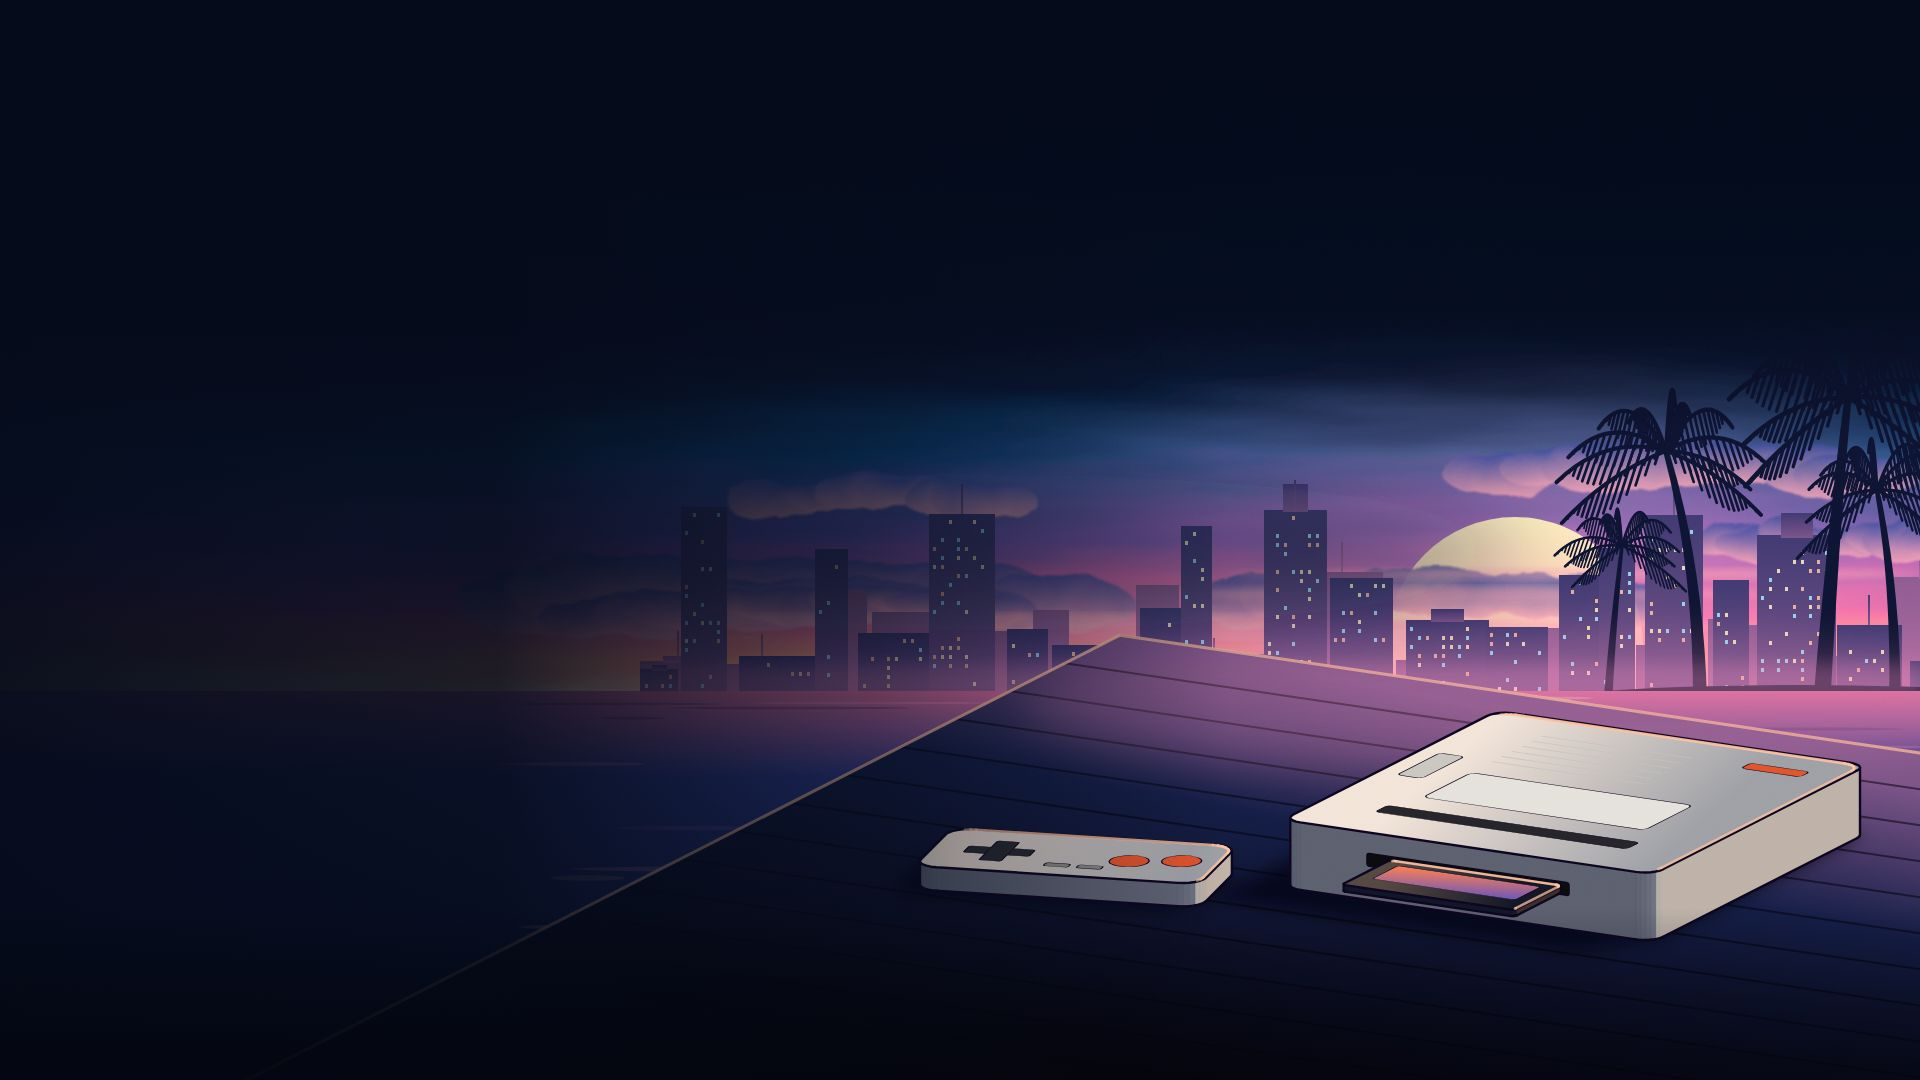
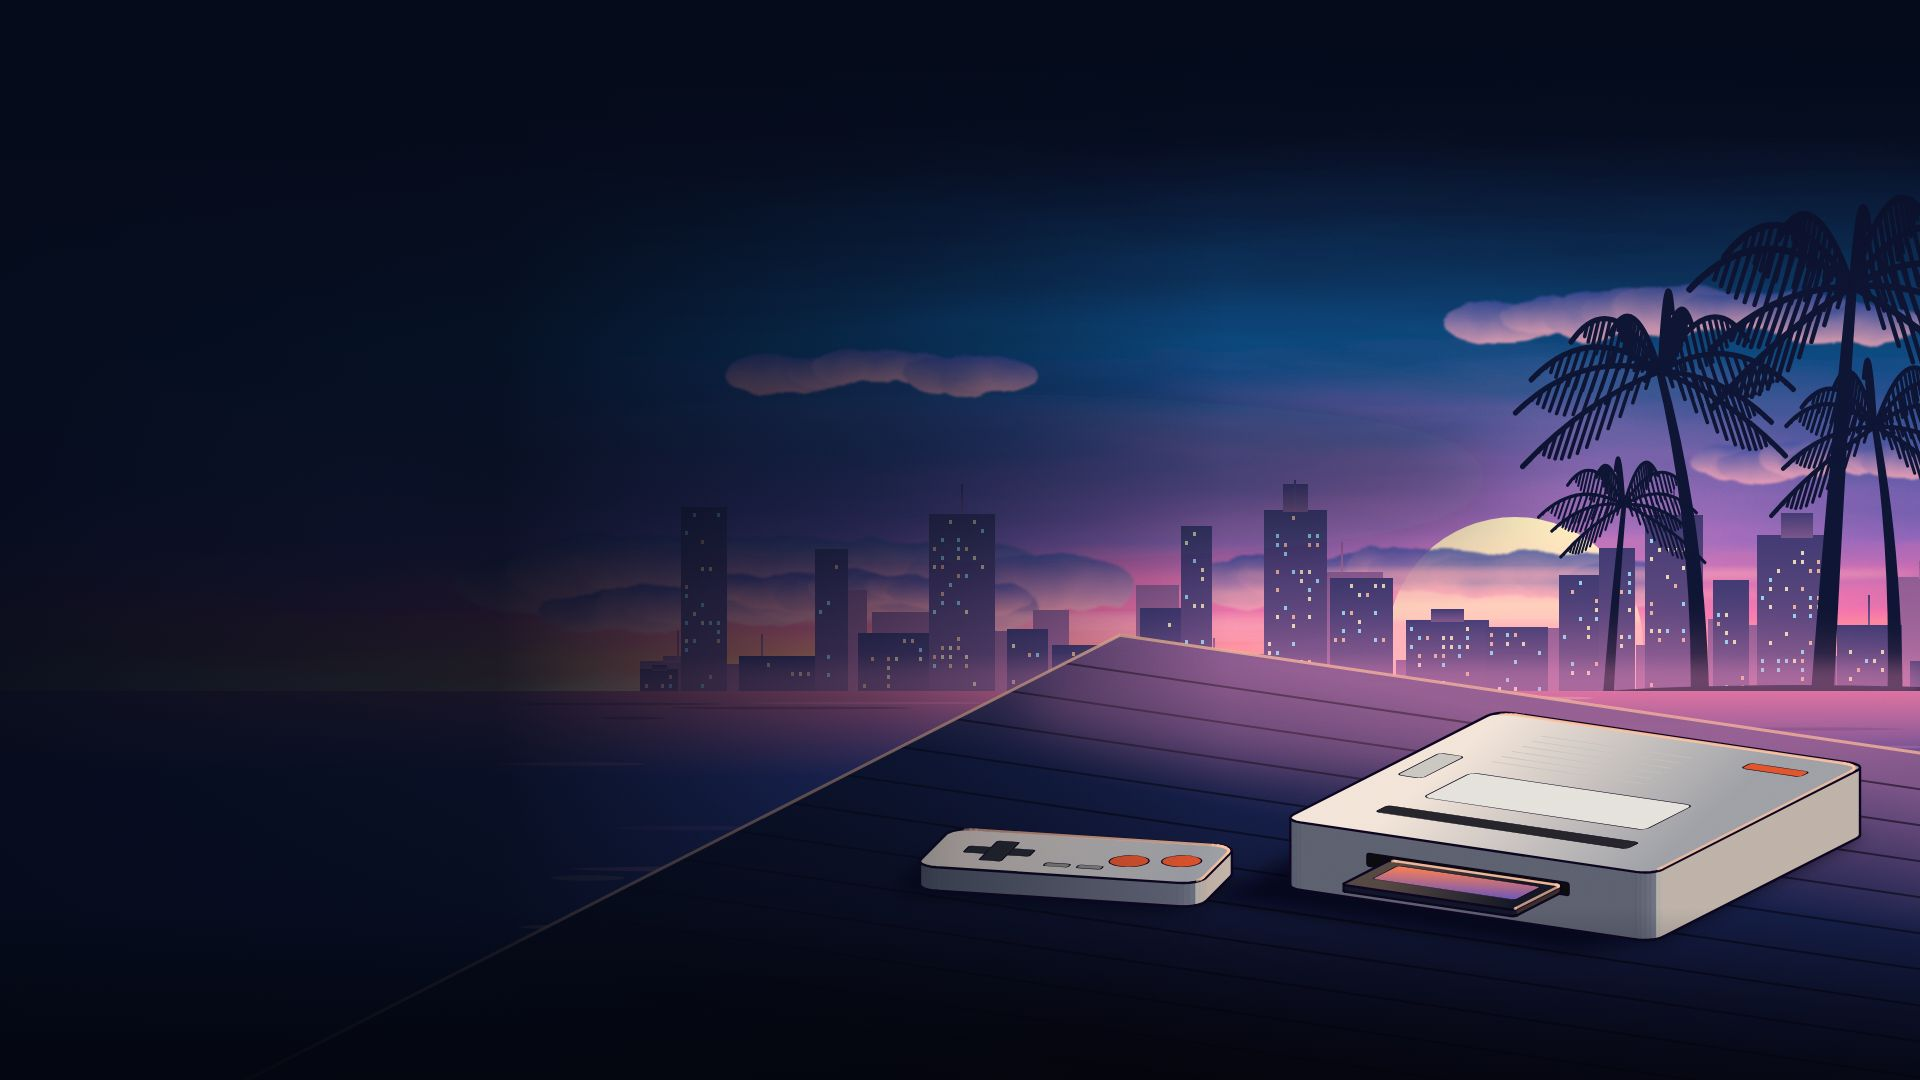
Home completed

Changed region(s): [[0.3438, 0.1528, 1.0, 0.6111], [0.375, 0.4278, 0.5312, 0.4889], [0.875, 0.5806, 0.9062, 0.6111]]

diff --git a/tools/render-system-backgrounds.py b/tools/render-system-backgrounds.py
@@ -1,7 +1,8 @@
 #!/usr/bin/env python3
 """Draws the systems' backgrounds (systems/<name>/background.jpg): the machine, inked and lit
 from behind, on a pier in front of a coastal city at sunset. Saturated pinks, oranges and
-purples over the theme's navy, with the left and the top kept dark for the tiles and the texts.
+purples over the theme's navy, with the left kept dark for the texts and the very top for the
+top bar; the sky keeps its color behind the home's row of tiles, which are translucent.
 
     python3 tools/render-system-backgrounds.py            # every system
     python3 tools/render-system-backgrounds.py snes nes   # only these
@@ -54,22 +55,22 @@ def dim(c, keep):
 # Sky from the top to the horizon (fractions of the height), sun, light and shadow of each mood
 MOODS = {
     "vice": dict(
-        sky=[(0, "#040816"), (.34, "#0B1238"), (.42, "#3A1466"), (.50, "#9A1F85"), (.565, "#F03C72"),
+        sky=[(0, "#040816"), (.14, "#0B1238"), (.33, "#3A1466"), (.50, "#9A1F85"), (.565, "#F03C72"),
              (.61, "#FF7F4F"), (.64, "#FFCB66")],
         sun=("#FFE9A0", "#FF6F61"), glow="#FF5E8A", rim="#FFB07A", shadow="#2B1250", city="#27104D",
         cloud=("#5A1C78", "#FF8E7A"), water=("#C24A6E", "#45155C", "#080A1E")),
     "miami": dict(
-        sky=[(0, "#040816"), (.34, "#071A3A"), (.42, "#0F4A80"), (.50, "#6A55B8"), (.565, "#F0629F"),
+        sky=[(0, "#040816"), (.14, "#071A3A"), (.33, "#0F4A80"), (.50, "#6A55B8"), (.565, "#F0629F"),
              (.61, "#FF9F7A"), (.64, "#FFDDA6")],
         sun=("#FFF1C1", "#FF8FB1"), glow="#FF8FBF", rim="#FFC2A0", shadow="#1B2A5E", city="#1D2A63",
         cloud=("#3F4FA0", "#FFA9B8"), water=("#D46A98", "#2C3A86", "#060C22")),
     "gold": dict(
-        sky=[(0, "#040816"), (.34, "#101040"), (.42, "#43207A"), (.50, "#B23F74"), (.56, "#F6774C"),
+        sky=[(0, "#040816"), (.14, "#101040"), (.33, "#43207A"), (.50, "#B23F74"), (.56, "#F6774C"),
              (.61, "#FFAA3F"), (.64, "#FFE680")],
         sun=("#FFF4B8", "#FFA23D"), glow="#FF9A3D", rim="#FFD08A", shadow="#3A1848", city="#33154A",
         cloud=("#6B2A6E", "#FFB05E"), water=("#D9763F", "#5A1E55", "#0A0A1E")),
     "night": dict(
-        sky=[(0, "#03050F"), (.36, "#070B26"), (.46, "#1F1152"), (.54, "#62188C"), (.60, "#CC2585"),
+        sky=[(0, "#03050F"), (.14, "#070B26"), (.36, "#1F1152"), (.54, "#62188C"), (.60, "#CC2585"),
              (.64, "#FF6494")],
         sun=("#FFF3FF", "#F0B7FF"), glow="#C13CFF", rim="#FF6AD5", shadow="#150C3A", city="#120A33",
         cloud=("#2A1560", "#D94BB0"), water=("#8A2A86", "#2A1160", "#05061A")),
@@ -393,7 +394,7 @@ def scene(page, mood, rnd):
     cloud = page.gradient([(0, shade), (.55, mix(shade, lit, .55)), (1, lit)])
     clouds = []
     for _ in range(7):
-        cx, cy = rnd.uniform(720, 1900), rnd.uniform(HORIZON - 250, HORIZON - 70)
+        cx, cy = rnd.uniform(720, 1900), rnd.uniform(HORIZON - 440, HORIZON - 70)
         w = rnd.uniform(220, 520)
         for i in range(9):
             t = i / 8 - .5
@@ -427,7 +428,7 @@ def scene(page, mood, rnd):
     # An island with palms, far to the right
     dark = mix(mood["city"], "#04030C", .55)
     page.add(f'<ellipse cx="1800" cy="{HORIZON + 14:.0f}" rx="270" ry="20" fill="{dark}"/>')
-    for x, hgt, lean in ((1700, 250, -34), (1822, 300, 26), (1895, 215, -18), (1608, 150, 14)):
+    for x, hgt, lean in ((1700, 330, -40), (1822, 410, 30), (1895, 280, -20), (1608, 190, 16)):
         palm(page, x, HORIZON + 8, hgt * rnd.uniform(.92, 1.06), lean, dark, rnd)
     page.add(f'<rect x="600" y="{HORIZON - 26:.0f}" width="{W - 600}" height="34" fill="{mood["glow"]}" opacity=".22" filter="url(#blur8)"/>')
     # The water: the sky upside down, darker, with the sun's streak
@@ -448,12 +449,12 @@ def scene(page, mood, rnd):
 
 
 def finish(page):
-    """Keeps the left, the top and the bottom dark for the texts, and adds a grain of paint."""
+    """Keeps the left, the very top and the bottom dark for the texts, and adds a grain of paint."""
     left = page.gradient([(0, NAVY, .97), (.26, NAVY, .90), (.46, NAVY, .50), (.64, NAVY, 0)], 0, 0, 1, 0)
-    top = page.gradient([(0, NAVY, .96), (.28, NAVY, .78), (.42, NAVY, 0)])
+    top = page.gradient([(0, NAVY, .95), (.11, NAVY, .84), (.19, NAVY, .34), (.30, NAVY, 0)])
     bottom = page.gradient([(.84, "#03040C", 0), (1, "#03040C", .70)])
     # A soft shade behind the system's name, which may run far to the right over the bright sky
-    page.add(f'<ellipse cx="960" cy="552" rx="560" ry="78" fill="{NAVY}" opacity=".42" filter="url(#blur45)"/>')
+    page.add(f'<ellipse cx="960" cy="478" rx="560" ry="84" fill="{NAVY}" opacity=".42" filter="url(#blur45)"/>')
     page.add(f'<rect width="{W}" height="{H}" fill="{left}"/><rect width="{W}" height="{H}" fill="{top}"/>'
              f'<rect width="{W}" height="{H}" fill="{bottom}"/>'
              f'<rect width="{W}" height="{H}" filter="url(#grain)" opacity=".07" style="mix-blend-mode:overlay"/>')

diff --git a/tools/render-icons.py b/tools/render-icons.py
@@ -1,7 +1,6 @@
 #!/usr/bin/env python3
-"""Draws the theme's own icons, flat and white: the top bar's controller, gun and wheel and the
-down arrow under the selected tile (_inc/icons/). The systems' tiles show their brand logos
-instead (views/system.xml).
+"""Draws the theme's own icons, flat and white: the top bar's controller, gun and wheel
+(_inc/icons/). The systems' tiles show their brand logos instead (views/system.xml).
 
     python3 tools/render-icons.py
 
@@ -70,9 +69,6 @@ ICONS = {
                part(rr(45, 50, 10, 32, 4)),
                part(circle(50, 50, 9), circle(50, 50, 4))],
               "8 8 84 84"),
-    # Under the selected tile
-    "arrow-down": ([part(poly([(44, 20), (56, 20), (56, 58), (70, 58), (50, 82), (30, 58), (44, 58)]))],
-                   "0 0 100 100"),
 }
 
 

diff --git a/docs/ARCHITECTURE.md b/docs/ARCHITECTURE.md
@@ -89,7 +89,8 @@ Learned on the console (Batocera 43.1); each one cost a round of screenshots:
   selected one so it doesn't cover them, and `logoAlignment` top keeps every tile's top on the
   row, so the selected one grows down and to the right.
 - **`systemInfoDelay`** (the carousel's) is how long the engine waits before showing
-  `systemInfo`; 0 shows the number of games together with the name.
+  `systemInfo`, its own line of games. The home hides that line and shows `{system:total}` in
+  the selected tile's strip instead, which has no delay.
 - **No date.** Themes get no current date: `{global:clock}` is the "show clock" setting ("YES"),
   the `<clock>` element shows the time only (`%H:%M`, or `%I:%M %p` with the 12-hour option)
   and ignores `<format>`, and the date format in the engine is the screensaver's.
@@ -117,6 +118,17 @@ Learned on the console (Batocera 43.1); each one cost a round of screenshots:
   the list being a variable of names separated by spaces. It works in a `<path>`, a `<visible>`,
   an `<opacity>` and a shader's `_binding`, and a condition may sit in another's "else"
   (`a ? 1 : b ? 2 : 3`).
+- **Keys belong to the engine.** A theme can't react to a key or add a second place to move
+  to: on the system view, left and right change the system, and down and up jump to the next
+  group of systems when Batocera's "Quick system select" is on, else do nothing.
+- **A delayed element on the system view.** Each system has its own copy of the view's
+  elements, and an element's `<storyboard>` (with no event) starts over when its system is
+  selected: an `opacity` animation with `begin="1000"` shows it after a second of rest.
+  `begin` and `duration` take plain numbers; a `${variable}` there counts as 0.
+- **System figures**: `{system:favorites}`, `{system:gamesPlayed}`, `{system:gameTime}`,
+  `{system:lastPlayedDate}`, `{system:mostPlayed}`, `{system:isCheevosSupported}` and
+  `{system:isNetplaySupported}` work in the system view's texts. A text shows "None" for 0:
+  `{system:favorites} > 0 ? {system:favorites} : "0"` shows the number.
 - **RetroAchievements**: `${global.cheevos}` is set when an account is configured in Batocera,
   `${global.cheevos.username}` is its name; a `webimage` loads the avatar from
   `media.retroachievements.org` and keeps it in `~/.emulationstation/tmp`.
@@ -131,7 +143,7 @@ batox-theme/
     backgrounds/          generated backgrounds (tools/render-background.py)
     frames/               selection glow (ninepatch) and white.png (tools/render-frames.py)
     fonts/                Inter Light, Regular and SemiBold, and their license (OFL 1.1)
-    icons/                the down arrow of the selected tile; controller, gun and wheel
+    icons/                the top bar's controller, gun and wheel
     shaders/              white.glsl: draws the systems' logos in white
   views/
     screen.xml            always on top: controllers, network and battery, clock
@@ -155,7 +167,7 @@ batox-theme/
     render-background.py  draws the wave backgrounds, in pure Python
     render-system-backgrounds.py  draws the systems' backgrounds (needs Chrome or Chromium)
     render-frames.py      draws the selection glow and white.png, in pure Python
-    render-icons.py       draws the top bar's icons and the down arrow, in pure Python
+    render-icons.py       draws the top bar's icons, in pure Python
     preview-logos.py      shows every system logo as the home draws it, to pick its treatment
     deploy.sh             copies the theme to a console over SSH
     package.sh            builds the release ZIP
@@ -185,7 +197,7 @@ Colors (hex, `RRGGBBAA` where transparency matters):
 | `bgTop` / `bgBottom` | `0B1A33` / `04080F` | background gradient |
 | `wave` | `3B7BE0` at 10–25 % | light waves over the background |
 | `surface` / `tileSurface` | `14233DE6` / `1A2B48` | panels / game tiles |
-| `homeTile` / `homeTileSelected` / `homeStrip` | `15306B` / `3A5797` / `213F7D` (94 %) | the home's tiles |
+| `homeTile` / `homeTileSelected` / `homeStrip` | `15122B` (65 %) / `2E2659` / `1E1940` (94 %) | the home's tiles: dark indigo, after the sunset backgrounds; the unselected ones let the background show through |
 | `selectionColor` | `F2F4F8` | the selection frame: white, like a console home's |
 | `accent` | `3B8CFF` | rating, focus |
 | `textPrimary` | `FFFFFF` | titles, the brand |
@@ -205,10 +217,12 @@ The home at 16:9 (fractions of the screen), measured on a console's home screen:
 0.19 │┌───┐┏━━━━━━━━━┓┌───┐┌───┐┌───┐┌───┐┌───┐┌───┐┌───┐┌───┐┌───┐ │  square tiles of 202 px,
      ││ ▣ │┃         ┃│ ▣ ││ ▣ ││ ▣ ││ ▣ ││ ▣ ││ ▣ ││ ▣ ││ ▣ ││ ▣ │ │  5 px apart, white logos
 0.38 │└───┘┃  logo   ┃└───┘└───┘└───┘└───┘└───┘└───┘└───┘└───┘└───┘ │
-     │     ┃         ┃                                              │  the selection, in the
-0.51 │     ┃─────────┃ Final Burn Neo                                │  second place: 1.7 times
-0.59 │     ┗━━━↓━━━━━┛ Arcade   2019                                │  larger, a strip with an
-0.63 │                 918 GAMES                                    │  arrow, a white frame
+0.44 │     ┃         ┃ Final Burn Neo                                │  the selection, in the
+0.49 │     ┃─────────┃ Arcade   2019                                │  second place: 1.7 times
+0.59 │     ┗918 GAMES┛                                              │  larger, a strip with its
+0.62 │     ┌ favorites   played       play time ┐                   │  games, a white frame;
+0.84 │     └ last played most played  features  ┘                   │  under it, the panel,
+     │                                        the system's picture  │  after a second of rest
 0.88 │ ──────────────────────────────────────────────────────────── │  separator
 0.90 │ (start) MENU  (Y) SEARCH  (X) RANDOM  (B) SELECT             │  help bar
 1.00 └──────────────────────────────────────────────────────────────┘
@@ -247,12 +261,21 @@ Approved on the console, and kept unless asked:
 - A tile: a square of `homeTile` with the system's brand logo in white (see
   [Per-system artwork](#per-system-artwork)), else its name. The selected one grows 1.7 times
   into a card: lighter
-  (`homeTileSelected`), a `homeStrip` strip with a down arrow under it, and a white frame of four
+  (`homeTileSelected`), a `homeStrip` strip with its number of games under it, and a white frame of four
   thin bars.
-- At the card's right: the system's name (light, 0.052), maker and year, and number of games.
-- The background, name, maker, year and number of games follow the selection, crossfading in
-  300 ms; the waves, the separator and the help bar stay. `systemInfoDelay` 0 shows the number
-  of games at once, with the name (the engine waits otherwise).
+- At the card's right: the system's name (light, 0.052), and its maker and year. The engine's
+  own line of games (`systemInfo`) is hidden: the number is in the strip.
+- The name sits right under the row of tiles, so no empty band is left there, and the picture
+  of the machine stays clear below.
+- Under the selected card, from its left edge, the system's panel, like the one a console home
+  opens when you move down from a tile: two rows of a label over its value, in three equal
+  columns. Favorites, games played and play time; under them the last day played, the most
+  played game and the features the system supports, RetroAchievements and Netplay. The second row's values take two lines when they are long. The plate has an unselected tile's
+  color and transparency, sits the tiles' gap under the card, ends at the right edge of the
+  second tile after it and stops a little above the bottom bar's line (0.835 of 0.875). A theme can't react to the down key (see [Engine notes](#engine-notes)), so the panel
+  fades in by itself once the selection has rested a second on a system, and leaves with it.
+- The background, name, maker and year follow the selection, crossfading in 300 ms; the waves,
+  the separator and the help bar stay.
 - Background: the system's picture, drawn by the theme (see
   [Per-system artwork](#per-system-artwork)); a system without one gets Carbon's photo tinted by
   `artTint`, else the waves.
@@ -317,8 +340,8 @@ still to review there.
 **Backgrounds.** `tools/render-system-backgrounds.py` draws one picture per system, 25 so far
 (the test console's): the machine, inked and lit from behind, on a pier in front of a coastal
 city at sunset, with palms, in saturated pinks, oranges and purples over the theme's navy. The
-left and the top stay dark for the tiles and the texts, and a soft shade sits behind the
-system's name. Four moods of sky (`vice`, `miami`, `gold`, `night`) vary the row.
+left stays dark for the texts and the very top for the top bar, the sky keeps its color behind
+the row of tiles, which are translucent, and a soft shade sits behind the system's name. Four moods of sky (`vice`, `miami`, `gold`, `night`) vary the row.
 
 - A machine is a few boxes (a body, its raised parts, a cartridge, a controller) with details
   drawn flat on their faces, all seen from the same corner; consoles, handhelds, arcade

diff --git a/CHANGELOG.md b/CHANGELOG.md
@@ -14,17 +14,20 @@ All notable changes to this project are documented here. The format follows
   `tools/deploy.sh`, `tools/package.sh`, and CI and release workflows.
 - The home, after a console's home screen: one row of square tiles 5 px apart with each
   system's brand logo in white; the selected one, always in the second place, grows 1.7 times into a
-  card with a strip and a down arrow under it and a thin white frame, with the system's name,
-  maker, year and number of games at its right; the selected system's art behind, darkened, all
-  following the selection, the number of games at once; the clock in a light font with the network icon at its left, a
+  card with a strip showing its number of games under it and a thin white frame, with the system's name,
+  maker and year at its right; the selected system's art behind, all following the selection;
+  dark indigo tiles, after the sunset backgrounds; the clock in a light font with the network icon at its left, a
   separator and a help bar.
+- The system's panel on the home: favorites, games played, play time, last day played, the
+  most played game and what the system supports, shown after the selection rests a second on a
+  system.
 - A background of the theme's own for 25 systems, drawn by `tools/render-system-backgrounds.py`:
   the machine, inked and lit from behind, on a pier in front of a coastal city at sunset. The
   other systems keep Batocera's own photo, read in place and darkened.
 - The systems' logos are Batocera's own (Carbon's, read in place), drawn in white by the theme's
   shader (`_inc/shaders/white.glsl`); a logo on a dark plate also loses its dark parts, and a
   system without a usable logo shows its name. `tools/preview-logos.py` previews them all.
-- `tools/render-icons.py` draws the top bar's icons and the down arrow.
+- `tools/render-icons.py` draws the top bar's icons.
 - A first version of the game list (Home view): a row of box-art tiles, the game's art behind
   and its details under the row.
 - Inter (OFL), light, regular and semibold, as the theme's font, and `tools/render-frames.py` for the selection glow.
